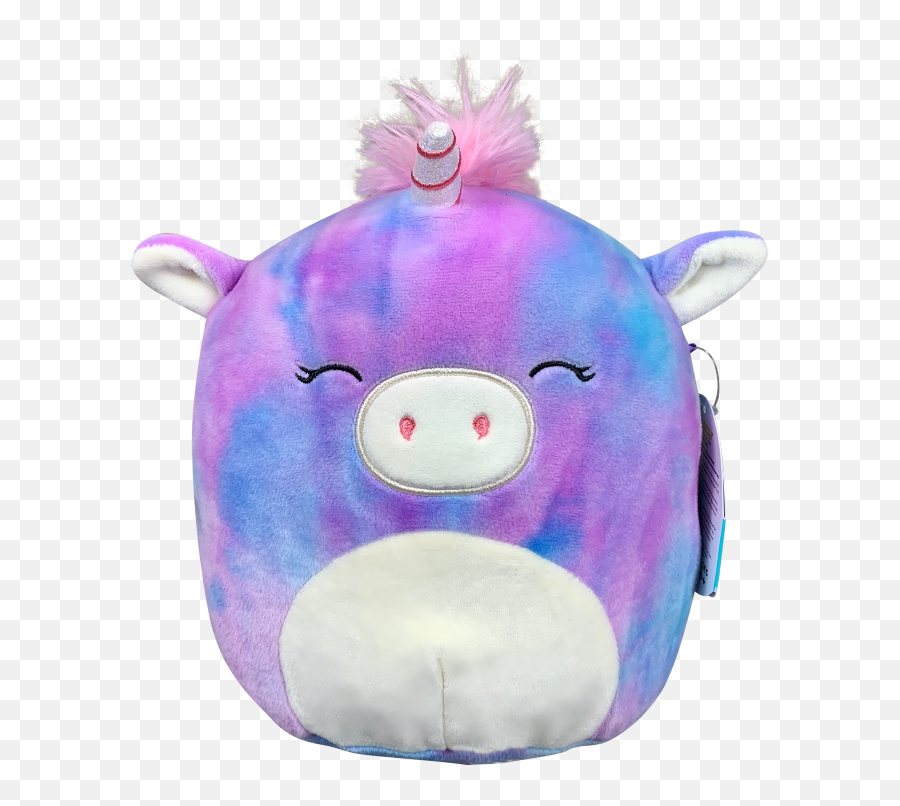
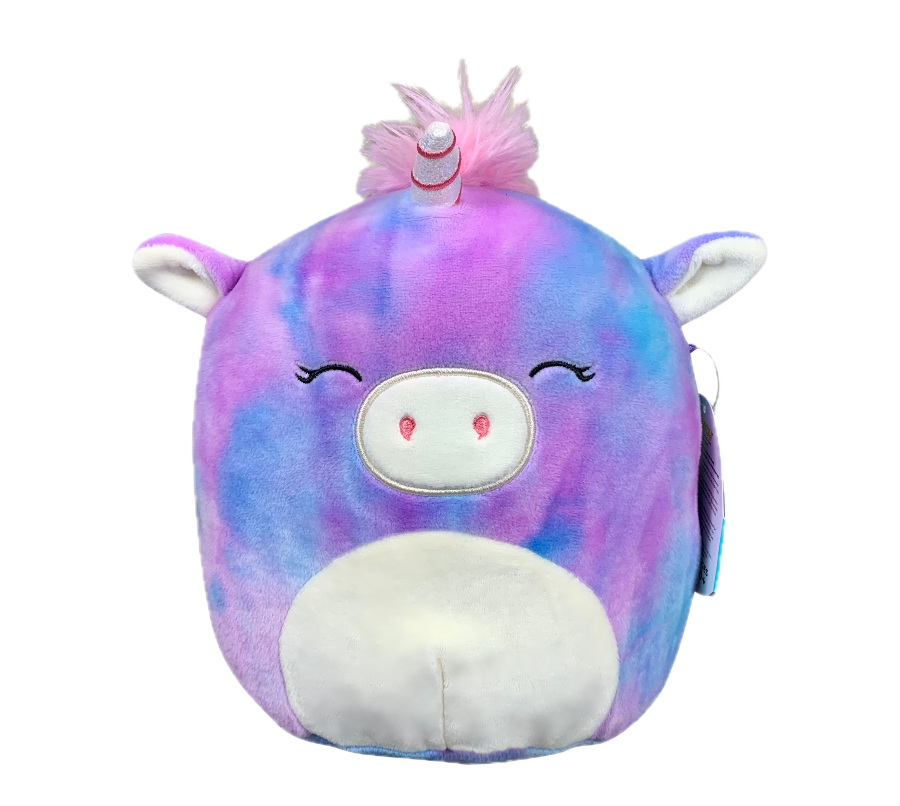
add unicorn squishmallow image as placeholder

diff --git a/src/js/main.js b/src/js/main.js
@@ -80,25 +80,25 @@ class SquishCollectorApp {
 
   // Setup mascot images with unicorn emoji fallback
   setupMascotImages() {
-    const mascotImages = document.querySelectorAll('.mascot-image');
-    
-    mascotImages.forEach(img => {
+    const mascotImages = document.querySelectorAll(".mascot-image");
+
+    mascotImages.forEach((img) => {
       // Set unicorn emoji as fallback content
-      img.textContent = '🦄';
-      img.style.color = 'white';
-      
+      img.textContent = "🦄";
+      img.style.color = "white";
+
       // Handle successful image load
       img.onload = () => {
-        img.textContent = '';
-        img.style.background = 'none';
+        img.textContent = "";
+        img.style.background = "none";
       };
-      
+
       // Handle image load error
       img.onerror = () => {
-        console.log('🦄 Using unicorn emoji fallback for mascot image');
-        img.style.background = 'linear-gradient(135deg, #9B59B6, #E91E63)';
-        img.textContent = '🦄';
-        img.style.color = 'white';
+        console.log("🦄 Using unicorn emoji fallback for mascot image");
+        img.style.background = "linear-gradient(135deg, #9B59B6, #E91E63)";
+        img.textContent = "🦄";
+        img.style.color = "white";
       };
     });
   }

diff --git a/src/index.html b/src/index.html
@@ -21,7 +21,11 @@
       <div id="loading-screen" class="screen active">
         <div class="loading-content">
           <div class="squishmallow-mascot">
-            <img src="assets/squishmallow-unicorn.png" alt="Adorable purple unicorn Squishmallow" class="mascot-image" />
+            <img
+              src="assets/aurora_the_unicorn.png"
+              alt="Adorable purple unicorn Squishmallow"
+              class="mascot-image"
+            />
           </div>
           <h1 class="game-title">Squishmallow Collector</h1>
           <h2 class="subtitle">Math Adventure Loading...</h2>
@@ -35,7 +39,11 @@
       <div id="dashboard-screen" class="screen">
         <div class="dashboard-content">
           <div class="squishmallow-mascot">
-            <img src="assets/squishmallow-unicorn.png" alt="Adorable purple unicorn Squishmallow" class="mascot-image small" />
+            <img
+              src="assets/aurora_the_unicorn.png"
+              alt="Adorable purple unicorn Squishmallow"
+              class="mascot-image small"
+            />
           </div>
           <h1 class="game-title">Squishmallow Collector</h1>
           <h2 class="subtitle">Math Adventure</h2>

diff --git a/src/css/main.css b/src/css/main.css
@@ -154,7 +154,11 @@ body {
 
 /* Fallback for missing image - shows unicorn emoji */
 .mascot-image {
-  background: linear-gradient(135deg, var(--primary-purple), var(--accent-pink));
+  background: linear-gradient(
+    135deg,
+    var(--primary-purple),
+    var(--accent-pink)
+  );
   border-radius: 50%;
   display: inline-flex;
   align-items: center;

diff --git a/src/assets/README.md b/src/assets/README.md
@@ -3,18 +3,22 @@
 ## Squishmallow Mascot Image
 
 Please save the purple unicorn Squishmallow image as:
-**`squishmallow-unicorn.png`**
+**`aurora-the-unicorn.png`**
 
 ### Requirements:
+
 - **Format**: PNG (for transparency support)
 - **Recommended size**: 200x200px or larger (will be automatically resized)
 - **Background**: Transparent preferred for best visual effect
 
 ### Usage:
+
 This image will be used as the main mascot throughout the app:
+
 - Loading screen (120x120px)
 - Dashboard header (80x80px)
 - Future game screens
 
 ### Fallback:
+
 If the image is not found, a gradient circle with unicorn emoji will be displayed as a fallback.
